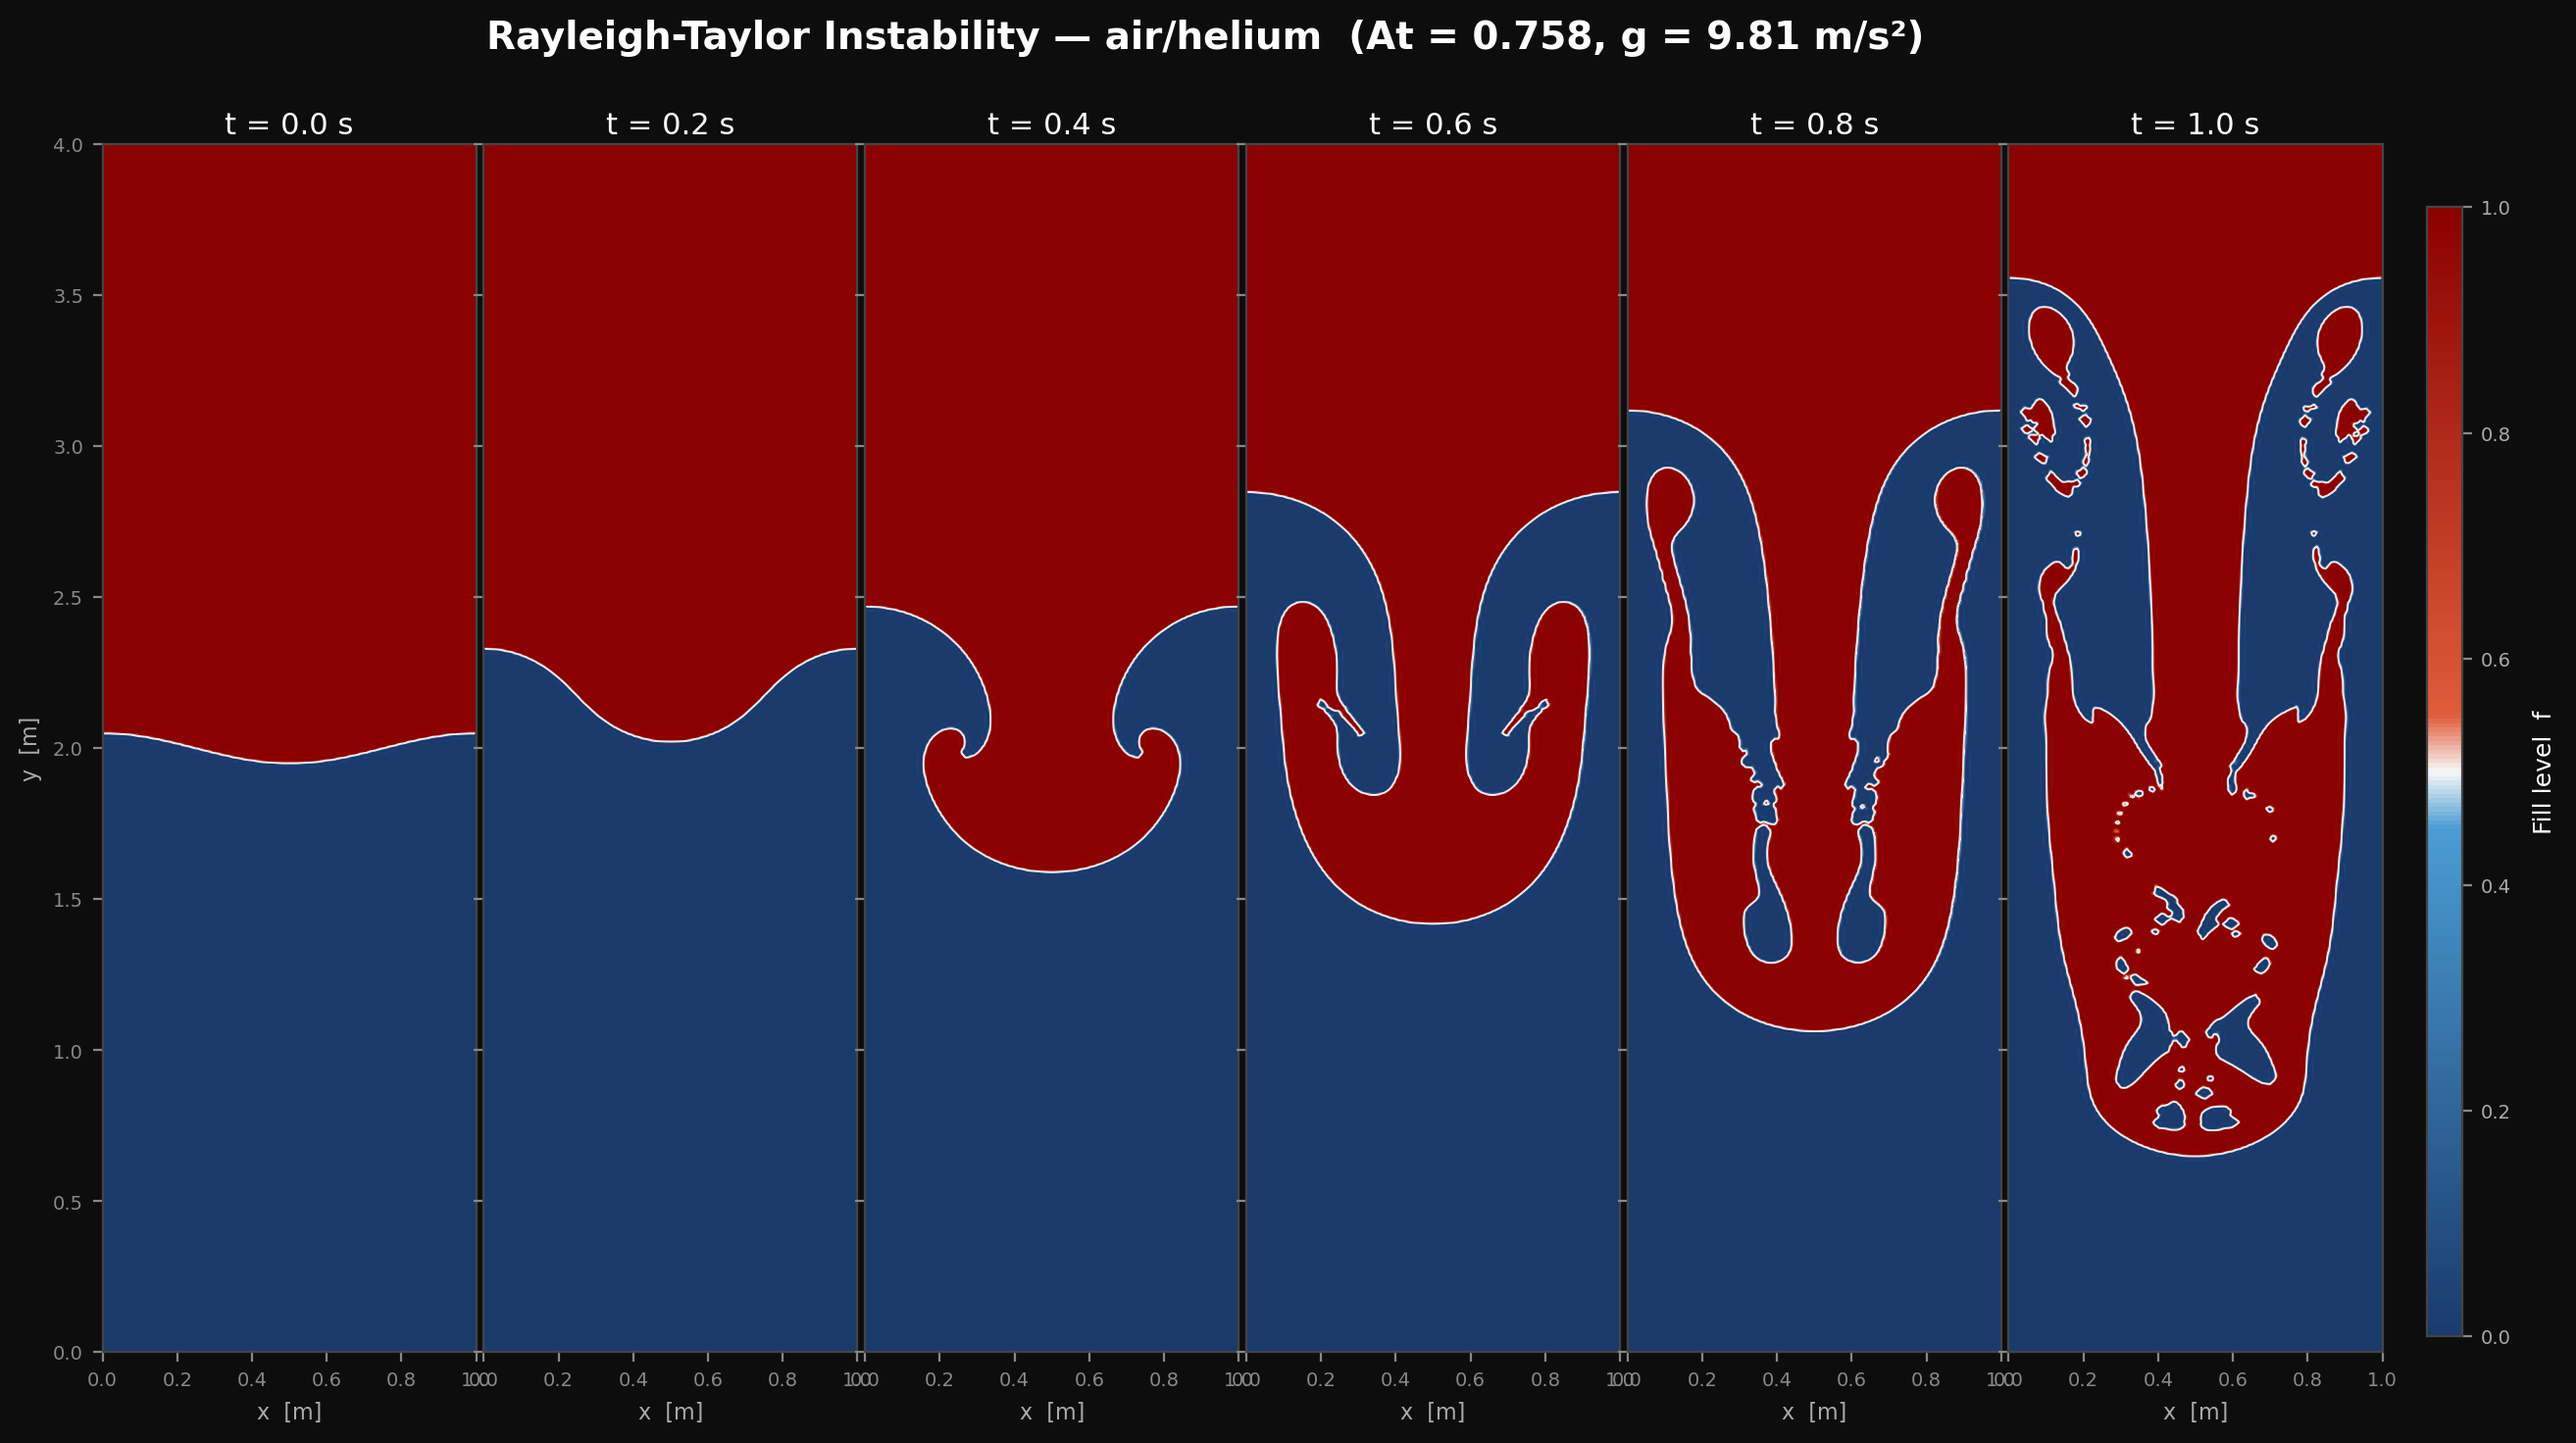
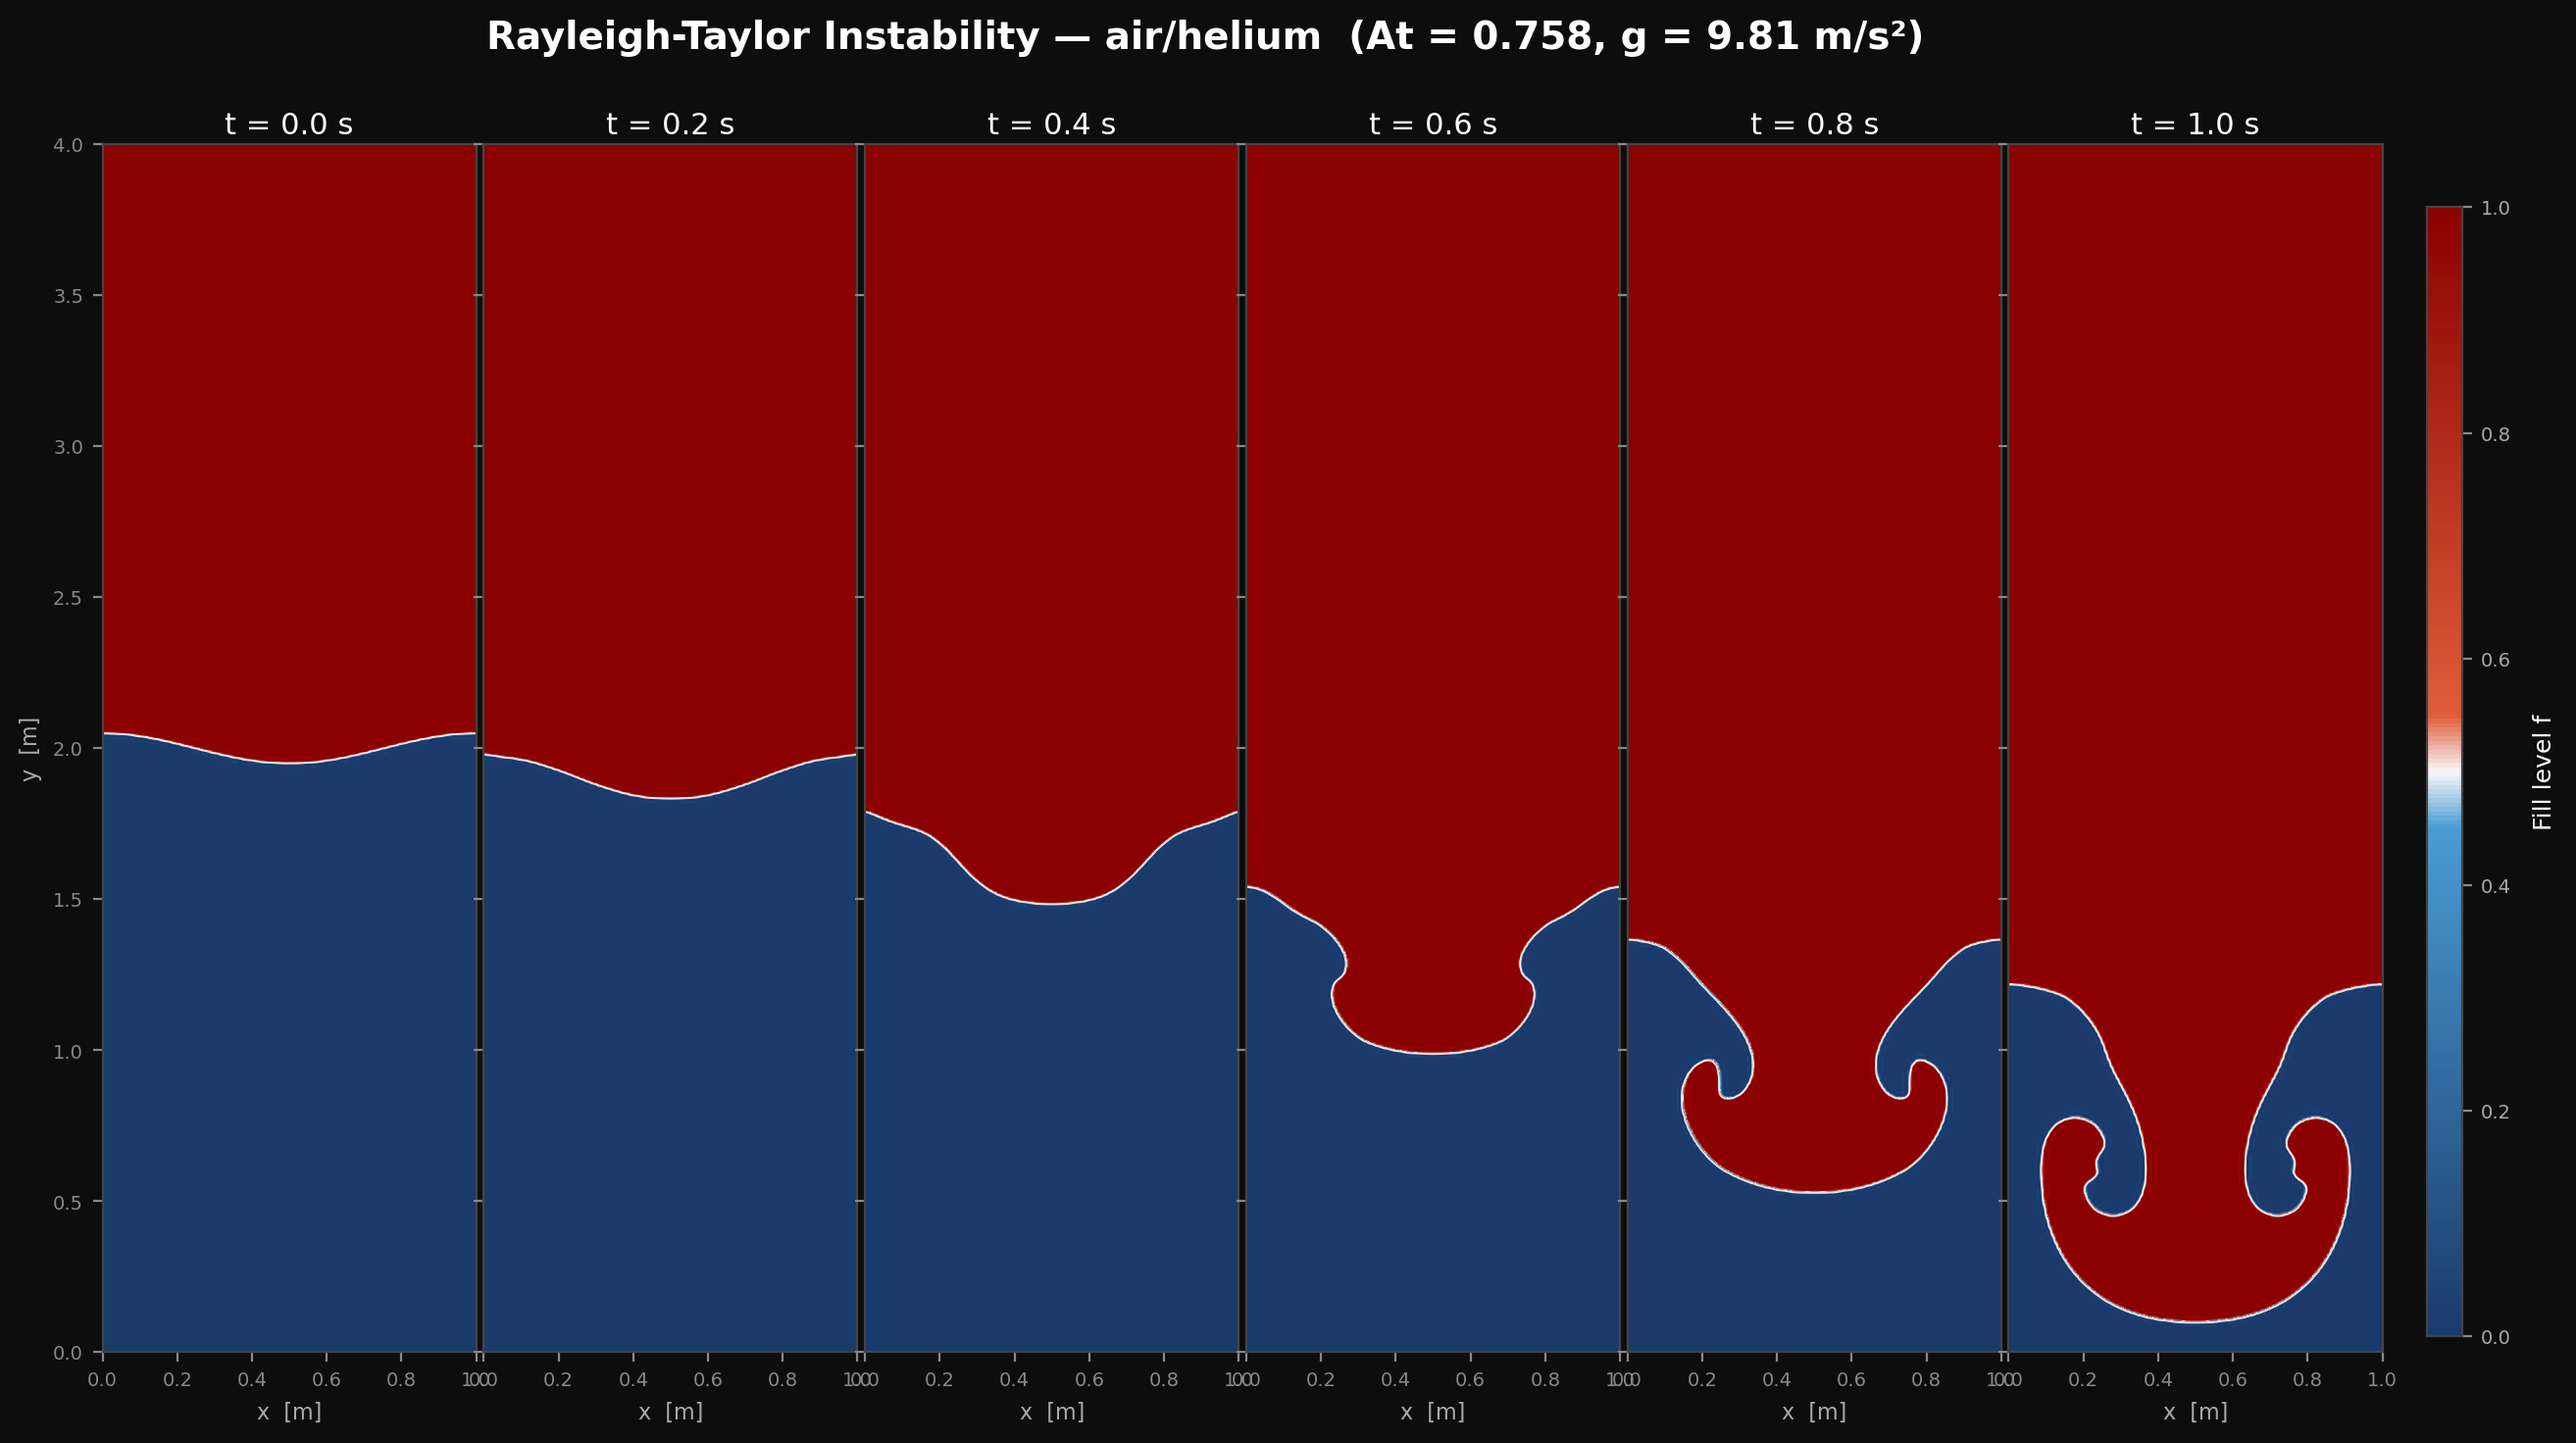
showcase: revert RT to iter 6 (uniform ν=7e-3 + asym Bouss, wider mushroom)
The thin-tail iter 14 variant (variable-ν + sqrt inertia correction +
patched TAU_MIN) was visually too "broken up" — user prefers the iter 6
look with the prominent paired KH wraps and wider mushroom cap.

Reverts gallery/rt_instability.png, scripts/viz/viz_rayleigh_taylor.py,
and the README caption to the state at commit 3f522b8.

Changed region(s): [[0.1873, 0.1875, 0.9364, 0.9375], [0.9676, 0.5312, 0.9989, 0.5625]]

diff --git a/scripts/viz/viz_rayleigh_taylor.py b/scripts/viz/viz_rayleigh_taylor.py
@@ -1,92 +1,143 @@
 #!/usr/bin/env python3
 """
-Rayleigh-Taylor instability visualization for showcase gallery.
+Rayleigh-Taylor instability visualization.
 
-Reads VOF fill-level CSV snapshots produced by
-/home/yzk/LBMProject/scripts/viz/viz_rt_openfoam_match.cu (iter 14 config:
-variable-ν 2-phase, asym Bouss with sqrt(rho_H/rho_local) inertia
-correction, patched TAU_MIN=0.505, free-slip BC fix). The simulation
-replicates the OpenFOAM interFoam case at
-/home/yzk/JAX-LaserAM/examples/RT_air_helium_nOuter3.
+Reads VOF fill-level CSV snapshots produced by viz_rt.cu and renders a
+4-panel figure showing the mushroom-cap formation sequence.
 
-Layout: 6 panels at t = 0.0, 0.2, 0.4, 0.6, 0.8, 1.0 s
-Each panel shows alpha (heavy=1, light=0) on blue/white/red colormap with
-f=0.5 contour overlay.
+Layout: step 0 | step 2000 | step 4000 | step 6000
+Each panel shows the f=0.5 contour on a blue/red colormap.
+Physical orientation: y increases upward; heavy fluid (f=1, red) starts on
+top and falls as spikes while light fluid (f=0, blue) rises as bubbles.
 
-Output: /home/yzk/LBMProject_showcase/gallery/rt_instability.png
+Output: /home/yzk/LBMProject/scripts/viz/rt_mushroom.png
 """
 
+import csv
 import numpy as np
 import matplotlib.pyplot as plt
 import matplotlib.colors as mcolors
+from matplotlib.ticker import MultipleLocator
 from pathlib import Path
 
 # ---------------------------------------------------------------------------
 # Configuration
 # ---------------------------------------------------------------------------
-DATA_DIR  = Path("/home/yzk/LBMProject/scripts/viz/rt_of_data")
-OUT_PATH  = Path("/home/yzk/LBMProject_showcase/gallery/rt_instability.png")
+DATA_DIR  = Path("/home/yzk/LBMProject/scripts/viz")
+OUT_PATH  = DATA_DIR / "rt_mushroom.png"
 
-# Simulation parameters (must match viz_rt_openfoam_match.cu)
-NX, NY = 128, 512
-LX_M, LY_M = 1.0, 4.0
-DX_M = LX_M / NX
-DY_M = LY_M / NY
+# Simulation parameters (must match viz_rt.cu — JAX air/helium config)
+NX, NY = 128, 1024                      # grid cells (tall domain for headroom)
+LX_M   = 1.0                            # m
+DX_M   = LX_M / NX                      # = 7.8125 mm / cell
+TAU_F  = 0.55
+NU_LBM = (TAU_F - 0.5) / 3.0
+NU_PHY = 2.5551e-3                      # m²/s (matches air at heavy phase)
+DT     = min(NU_LBM * DX_M**2 / NU_PHY, 5e-4)   # s / step
 
-# Times to plot (correspond to rt_of_t00 ... rt_of_t10)
+# Find closest available step file to each target time
 TIMES = [0.0, 0.2, 0.4, 0.6, 0.8, 1.0]
+import glob, re
+_files = sorted(glob.glob(str(DATA_DIR / "rt_step*.csv")))
+_avail = sorted(int(re.search(r"rt_step(\d+)", f).group(1)) for f in _files)
+
+def _nearest(target_step):
+    return min(_avail, key=lambda s: abs(s - target_step))
+
+PANELS = []
+for t in TIMES:
+    target = int(round(t / DT))
+    s = _nearest(target)
+    PANELS.append((f"step {s:05d}", s, f"t = {t:.1f} s"))
+
+# ---------------------------------------------------------------------------
+# Helpers
+# ---------------------------------------------------------------------------
+
+def load_csv(path: Path) -> np.ndarray:
+    """Load a 2-D CSV (rows = y, cols = x) into a float32 array.
+
+    CSV row j corresponds to lattice y=j (y=0 at domain bottom).
+    imshow with origin='lower' renders row 0 at the bottom, which preserves
+    the physical orientation: light fluid (f=0, blue) at bottom, heavy fluid
+    (f=1, red) at top.
+    """
+    with path.open() as fh:
+        rows = [list(map(float, line.split(","))) for line in fh if line.strip()]
+    return np.asarray(rows, dtype=np.float32)
 
 
-def load_csv(path):
-    """Load 2D CSV (rows=y, cols=x) as float32 array of shape (NY, NX)."""
-    return np.loadtxt(path, delimiter=",", dtype=np.float32)
+def crop_interface(data: np.ndarray, margin: int = 10) -> tuple[np.ndarray, int, int]:
+    """
+    Crop vertically to the interface region plus a fixed margin.
+    Returns (cropped_array, y_start, y_end) in original row indices.
+    Heavy fluid (f~1) is at top in data rows (low row index = low y).
+    """
+    ny = data.shape[0]
+    # Rows that contain an interface (not all 0 or all 1)
+    row_min = np.min(data, axis=1)
+    row_max = np.max(data, axis=1)
+    mixed = np.where((row_max - row_min) > 0.05)[0]
+    if len(mixed) == 0:
+        return data, 0, ny
+    y0 = max(0,  mixed.min() - margin)
+    y1 = min(ny, mixed.max() + margin + 1)
+    return data[y0:y1, :], y0, y1
 
 
 # ---------------------------------------------------------------------------
-# Blue → white → red colormap (light → interface → heavy)
+# Custom colormap: blue → white → red (fluid phases)
 # ---------------------------------------------------------------------------
 _CMAP = mcolors.LinearSegmentedColormap.from_list(
     "rt",
-    [(0.0,  "#1a3a6c"),
-     (0.45, "#4b9cd3"),
-     (0.5,  "#f8f8f8"),
-     (0.55, "#e05c3a"),
-     (1.0,  "#8b0000")],
+    [(0.0,  "#1a3a6c"),   # deep blue  (light fluid)
+     (0.45, "#4b9cd3"),   # sky blue
+     (0.5,  "#f8f8f8"),   # white at interface
+     (0.55, "#e05c3a"),   # orange-red
+     (1.0,  "#8b0000")],  # dark red   (heavy fluid)
 )
 
+# ---------------------------------------------------------------------------
+# Main
+# ---------------------------------------------------------------------------
 
 def main():
     fig, axes = plt.subplots(
-        1, len(TIMES),
+        1, len(PANELS),
         figsize=(15, 8),
         facecolor="#0d0d0d",
         gridspec_kw={"wspace": 0.02, "hspace": 0.0},
     )
 
     fig.suptitle(
-        "Rayleigh-Taylor Instability — air/helium  "
-        "(At = 0.758, g = 9.81 m/s²)",
+        "Rayleigh-Taylor Instability — air/helium  (At = 0.758, g = 9.81 m/s²)",
         color="white", fontsize=14, fontweight="bold", y=0.96,
     )
 
     im_ref = None
-    extent = [0.0, LX_M, 0.0, LY_M]
 
-    for ax, t in zip(axes, TIMES):
-        frame_idx = int(round(t * 10))
-        fname = DATA_DIR / f"rt_of_t{frame_idx:02d}.csv"
-        data = load_csv(fname)
-        if data.shape != (NY, NX):
-            raise RuntimeError(
-                f"{fname}: shape {data.shape} != expected ({NY}, {NX})")
+    for ax, (label, step_idx, time_label) in zip(axes, PANELS):
+        # files are zero-padded to 4 or 5 digits — try both
+        fname = DATA_DIR / f"rt_step{step_idx:04d}.csv"
+        if not fname.exists():
+            fname = DATA_DIR / f"rt_step{step_idx:05d}.csv"
+        data  = load_csv(fname)          # shape (ny, nx) = (512, 128)
+
+        # Crop view to y∈[0, 4] m to match JAX framing. Sim domain is
+        # actually y∈[0, 8] m so displaced light has room above y=4.
+        j_lo, j_hi = 0, int(round(4.0 / DX_M))
+        view = data[j_lo:j_hi, :]
+        extent_y = (0.0, 4.0)
+        extent = [0, NX * DX_M, extent_y[0], extent_y[1]]   # m
 
         ax.set_facecolor("#0d0d0d")
         im = ax.imshow(
-            data,
+            view,
             origin="lower",
             aspect="auto",
             cmap=_CMAP,
-            vmin=0.0, vmax=1.0,
+            vmin=0.0,
+            vmax=1.0,
             extent=extent,
             interpolation="lanczos",
         )
@@ -94,22 +145,23 @@ def main():
             im_ref = im
 
         # f=0.5 contour
-        x_cells = np.linspace(DX_M / 2, LX_M - DX_M / 2, NX)
-        y_cells = np.linspace(DY_M / 2, LY_M - DY_M / 2, NY)
+        y_cells = np.linspace(extent_y[0], extent_y[1], view.shape[0])
+        x_cells = np.linspace(0, NX * DX_M, view.shape[1])
         ax.contour(
-            x_cells, y_cells, data,
+            x_cells, y_cells, view,
             levels=[0.5],
             colors=["white"],
             linewidths=0.7,
             alpha=0.85,
         )
 
-        ax.set_title(f"t = {t:.1f} s", color="white", fontsize=11, pad=4)
+        ax.set_title(time_label, color="white", fontsize=11, pad=4)
         ax.set_xlabel("x  [m]", color="#aaaaaa", fontsize=8)
         ax.tick_params(colors="#888888", labelsize=7)
         for spine in ax.spines.values():
             spine.set_edgecolor("#444444")
 
+        # Only label y-axis on leftmost panel
         if ax is axes[0]:
             ax.set_ylabel("y  [m]", color="#aaaaaa", fontsize=8)
         else:
@@ -118,11 +170,10 @@ def main():
     # Shared colorbar
     cbar_ax = fig.add_axes([0.915, 0.12, 0.012, 0.72])
     cb = fig.colorbar(im_ref, cax=cbar_ax)
-    cb.set_label("Fill level  f", color="white", fontsize=9, labelpad=8)
+    cb.set_label("Fill level f", color="white", fontsize=9, labelpad=8)
     cb.ax.yaxis.set_tick_params(color="#888888", labelcolor="#aaaaaa", labelsize=7)
     cb.outline.set_edgecolor("#444444")
 
-    OUT_PATH.parent.mkdir(parents=True, exist_ok=True)
     fig.savefig(OUT_PATH, dpi=200, bbox_inches="tight",
                 facecolor="#0d0d0d", edgecolor="none")
     print(f"Saved: {OUT_PATH}")

diff --git a/README.md b/README.md
@@ -33,7 +33,7 @@
 </tr>
 <tr>
 <td align="center"><img src="gallery/naca_a8_vorticity.png" alt="NACA0012 a=8 vorticity"><br><sub><b>NACA0012 α=+8° Re=1000 涡量场</b><br>D3Q27 Cumulant · D/dx=160 · von Karman 涡街</sub></td>
-<td align="center"><img src="gallery/rt_instability.png" alt="Rayleigh-Taylor"><br><sub><b>Rayleigh-Taylor 不稳定（air/helium）</b><br>At = 0.758 · PLIC + 2-phase ν · 细长拖尾 + 蘑菇双角</sub></td>
+<td align="center"><img src="gallery/rt_instability.png" alt="Rayleigh-Taylor"><br><sub><b>Rayleigh-Taylor 不稳定（air/helium）</b><br>At = 0.758 · TVD-MC VOF · 蘑菇头 + KH 卷</sub></td>
 <td align="center"><img src="gallery/lid_cavity.png" alt="Lid-driven cavity"><br><sub><b>Lid-Driven Cavity Re=1000</b><br>vs Ghia 1982（17 点）</sub></td>
 </tr>
 <tr>
